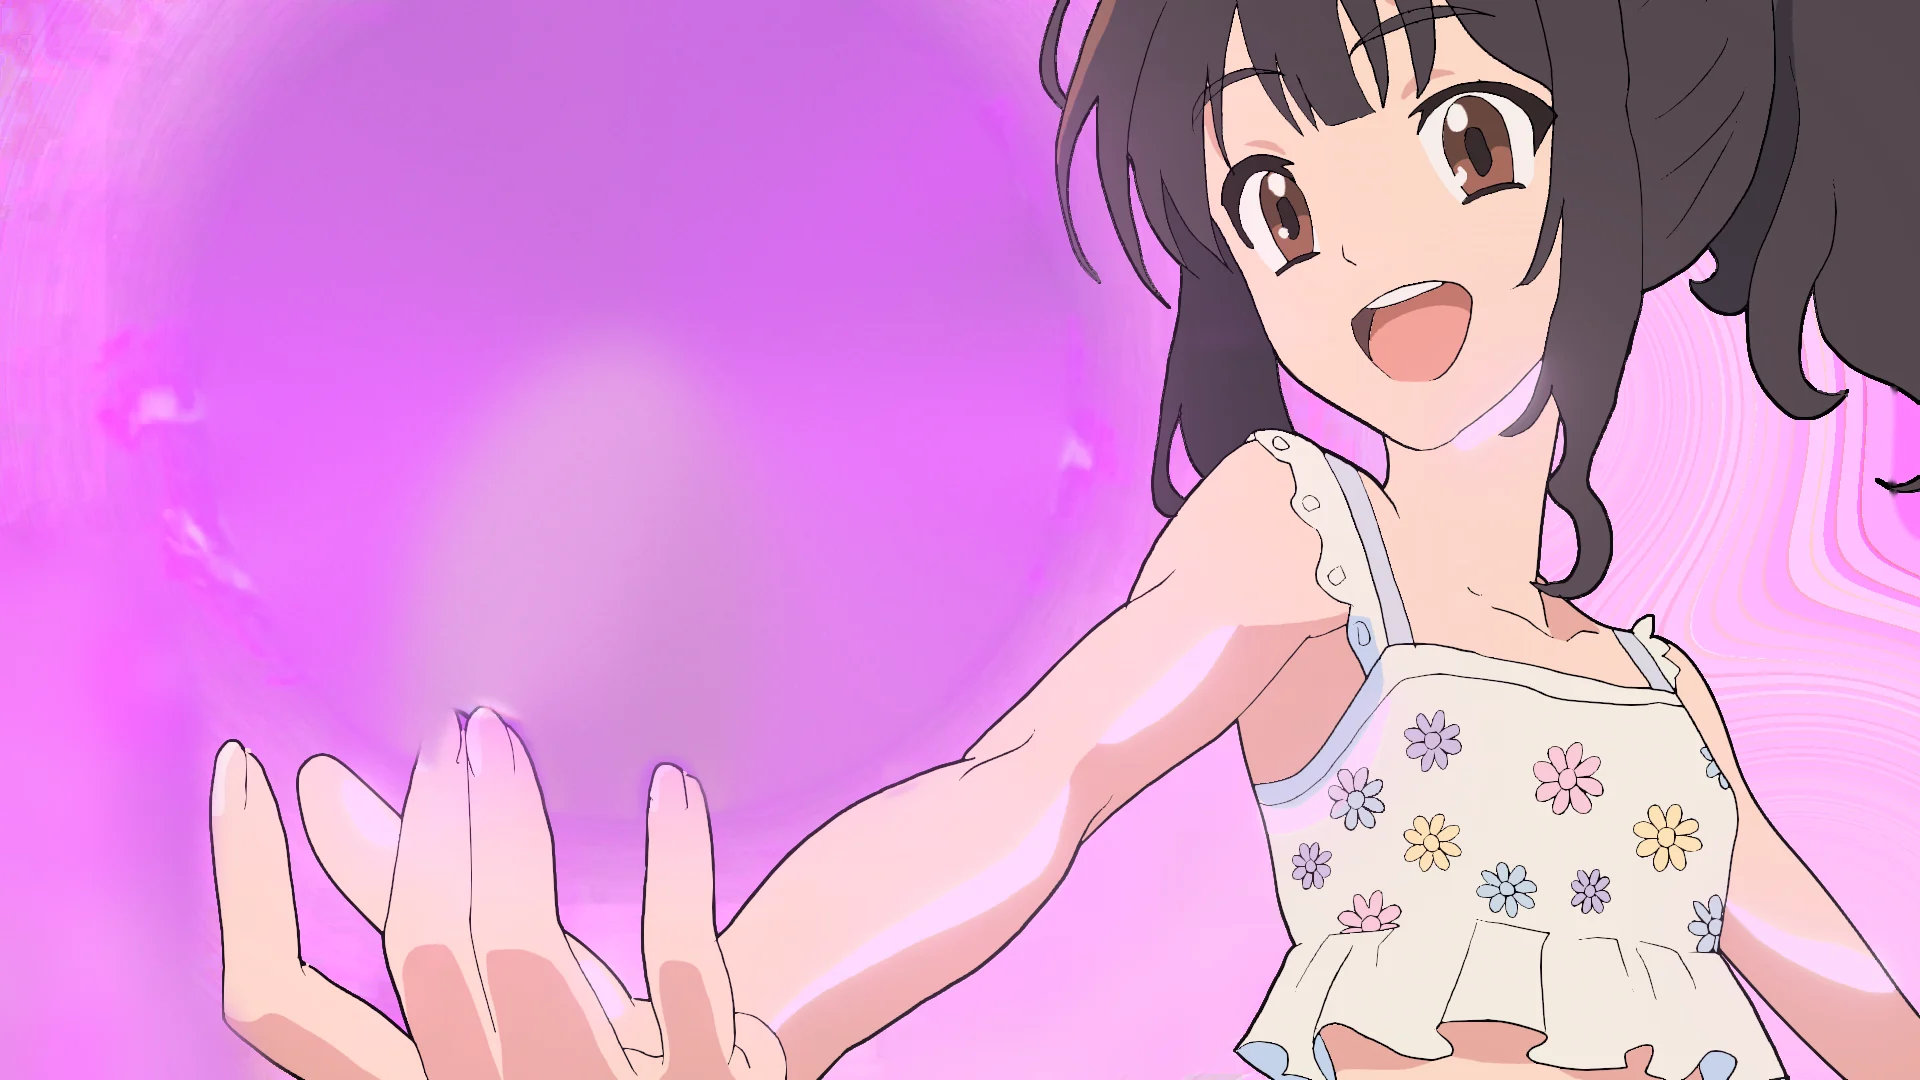
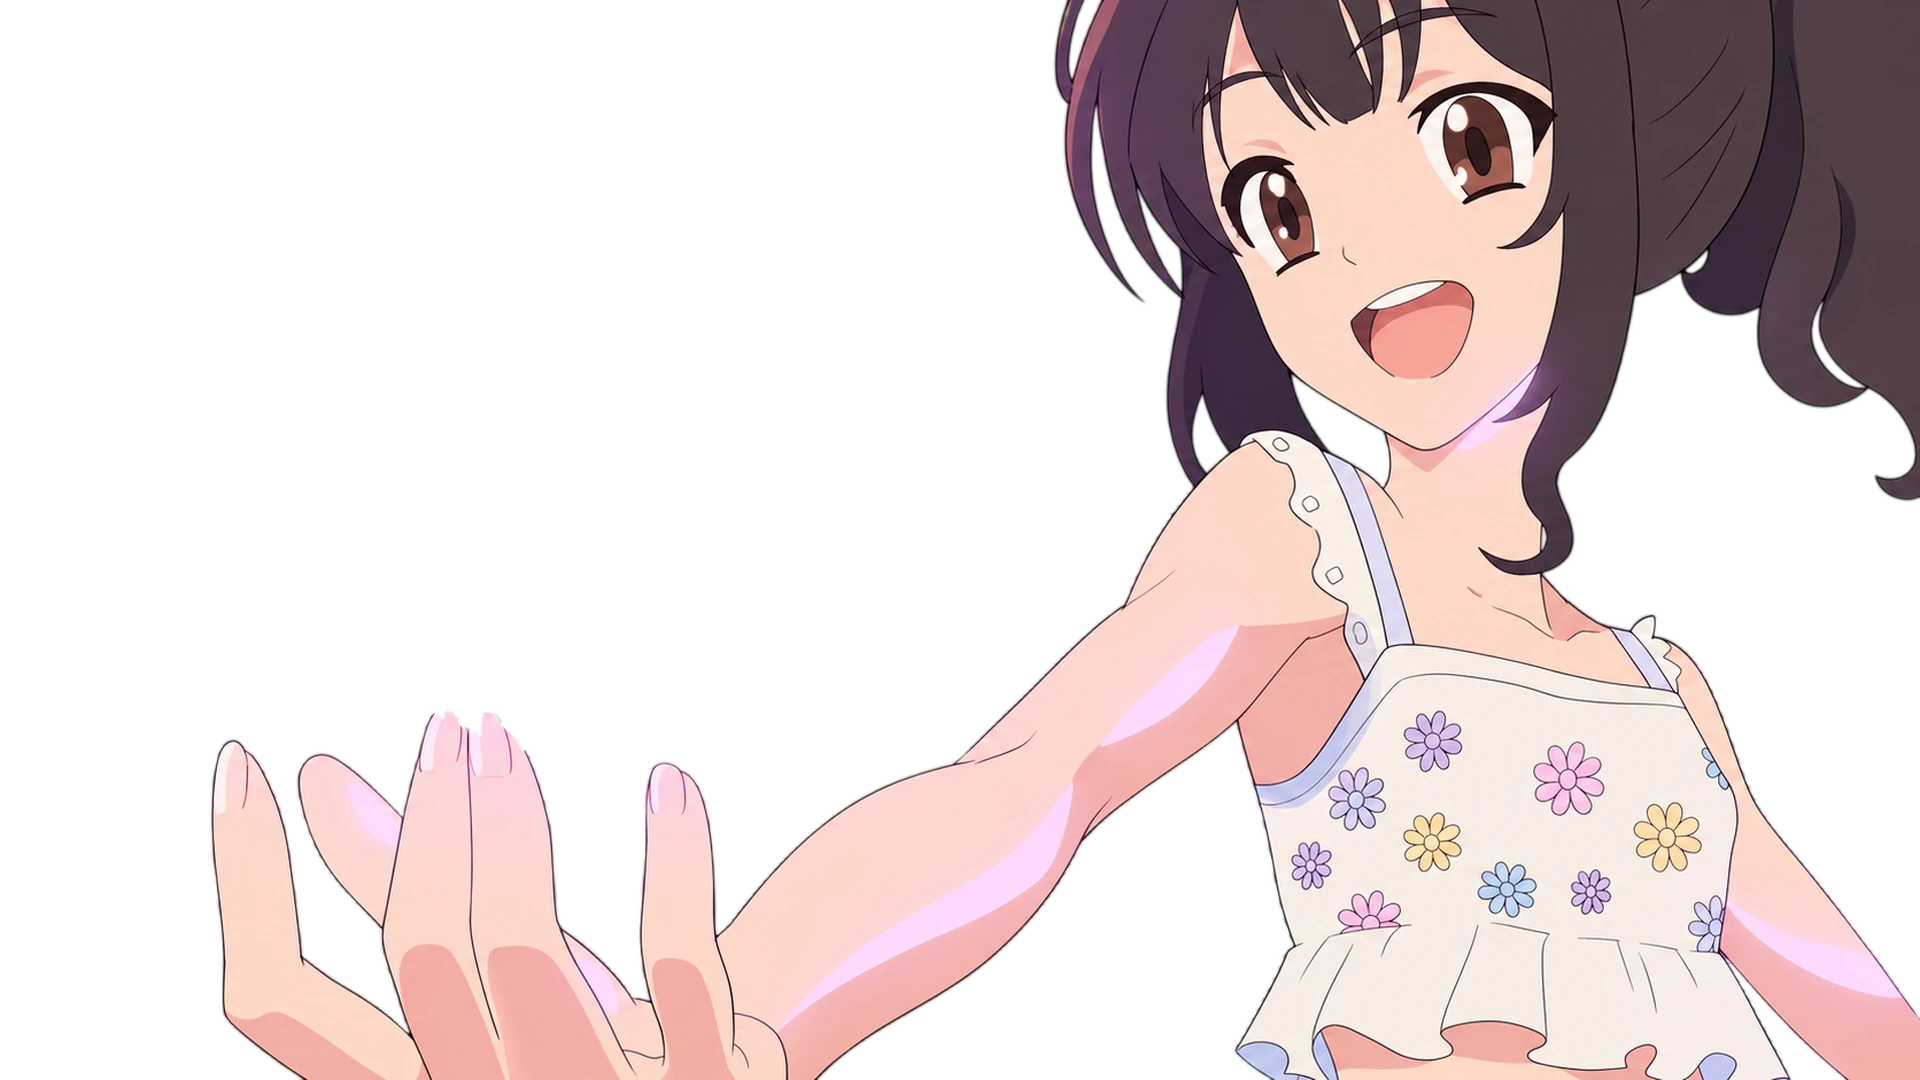
Add files via upload

diff --git a/js/main.js b/js/main.js
@@ -10,7 +10,8 @@
     fps: 24,
     intro: { count: 41, path: i => `./intro/i${String(i).padStart(3, '0')}.webp` },
     loop:  { count: 1, path: () => './loop/home.webp' },
-    showreel: { id: '1247734704', h: 'c49ad48897' },
+    ball:  { count: 32, path: i => `./loop/ball/b${String(i).padStart(3, '0')}.webp` },   // the glowing orb, transparent frames on top of the still
+    showreel: { id: '1249816233' },
     compareSource: 'local',   // 'local' = instant (recommended) · 'vimeo' = your Vimeo versions
     vimeoCompare: { genka: { id: '1247734705', h: '13a37f51ef' }, final: { id: '1247734706', h: '086fb55e4e' } },
     genkaLocal: { genkaVideo: './media/genka.mp4', finalVideo: './media/final.mp4' },
@@ -42,7 +43,7 @@
   /* ============================================================
      Frame sets + player
      ============================================================ */
-  const sets = { intro: [], loop: [] };
+  const sets = { intro: [], loop: [], ball: [] };
   let loaded = 0;
   const totalFrames = CONFIG.intro.count + CONFIG.loop.count;
 
@@ -689,6 +690,7 @@
     stage.style.setProperty('--oy', (H - rh) * fy + 'px');
     stage.style.setProperty('--u', rw / 100 + 'px');
     if (loopPlayer) { loopPlayer.fx = fx; loopPlayer.fy = fy; loopPlayer.resize(); }
+    if (ballPlayer) { ballPlayer.fx = innerWidth < 760 ? .8 : fx; ballPlayer.fy = fy; ballPlayer.resize(); }
     layoutHero.fx = fx; layoutHero.fy = fy;
   }
 
@@ -746,15 +748,23 @@
      Boot: loader (intro animation) → landing loop
      ============================================================ */
   const loader = $('#loader'), num = $('#loaderNum'), bar = $('#loaderBar'), skip = $('#loaderSkip');
-  let revealed = false, introPlayer = null, loopPlayer = null;
+  let revealed = false, introPlayer = null, loopPlayer = null, ballPlayer = null;
 
   function startLanding() {
     loopPlayer = new Player($('#loopCanvas'), sets.loop, { cover: true, loop: true });
     if (innerWidth < 760) loopPlayer.fx = .8;   // on phones keep the girl in view
+    const bc = $('#ballCanvas');
+    if (bc) {
+      loadSet('ball', 1).then(() => {
+        ballPlayer = new Player(bc, sets.ball, { cover: true, loop: true }); layoutHero();
+        if (reduce) { ballPlayer.draw(0); return; }
+        ballPlayer.play();
+      });
+    }
     layoutHero();
     if (reduce) { loopPlayer.draw(0); return; }
     loopPlayer.play();
-    new IntersectionObserver(es => es.forEach(e => e.isIntersecting ? loopPlayer.resume() : loopPlayer.pause()), { threshold: 0 }).observe($('#stage'));
+    new IntersectionObserver(es => es.forEach(e => { e.isIntersecting ? loopPlayer.resume() : loopPlayer.pause(); if (ballPlayer) e.isIntersecting ? ballPlayer.resume() : ballPlayer.pause(); }), { threshold: 0 }).observe($('#stage'));
   }
 
   // intro → homepage: no hold, no fade — a fast iris wipe over the landing loop while the title pops in

diff --git a/css/style.css b/css/style.css
@@ -135,7 +135,7 @@ html.has-cursor,.has-cursor *{cursor:none!important}
 .hero__sky .i1{left:-2%;top:22%}.hero__sky .i2{left:1%;top:60%;width:160px;height:88px;color:rgba(212,190,246,.4)}
 .hero__sky .isle-castle{position:absolute;left:1.5%;top:12.5%;width:170px;height:104px;color:rgba(130,104,200,.55)}
 /* full-bleed stage: JS sets --ox/--oy (frame offset) and --u (1% of frame width) so the orb text tracks the art */
-.hero__stage{position:absolute;inset:0;--ox:0px;--oy:0px;--u:14px}
+.hero__stage{position:absolute;inset:0;background:linear-gradient(100deg,#e56df2,#f5b3f8 60%,#f7c4f8);--ox:0px;--oy:0px;--u:14px}
 .hero__stage canvas{position:absolute;inset:0;width:100%;height:100%}
 .orbit{position:absolute;left:calc(var(--ox) + var(--u) * 33.2);top:calc(var(--oy) + var(--u) * 19.29);width:calc(var(--u) * 68);height:calc(var(--u) * 68);translate:-50% -50%;pointer-events:none;overflow:visible}
 .orbit__star{filter:drop-shadow(0 0 4px rgba(255,230,170,.9))}
@@ -312,7 +312,7 @@ html.has-cursor,.has-cursor *{cursor:none!important}
   .hero{height:auto;min-height:0}
   .hero__stage{position:relative;inset:auto;height:74svh;min-height:520px;max-height:700px}
   .hero::after{display:none}
-  #loopCanvas{-webkit-mask-image:linear-gradient(#000 86%,transparent);mask-image:linear-gradient(#000 86%,transparent)}
+  #loopCanvas,#ballCanvas{-webkit-mask-image:linear-gradient(#000 86%,transparent);mask-image:linear-gradient(#000 86%,transparent)}
   .hero__foot{position:relative;left:auto;right:auto;bottom:auto;flex-direction:column;align-items:flex-start;gap:16px;margin-top:-20px;padding-bottom:clamp(90px,22vw,140px)}
   .skills__grid{grid-template-columns:1fr}
   .skills__art{order:-1}

diff --git a/index.html b/index.html
@@ -107,6 +107,7 @@
     <svg class="isle-castle ic1" data-speed="0.12"><use href="#castle"/></svg>
   </div>
   <div class="hero__stage" id="stage">
+    <canvas id="ballCanvas" aria-hidden="true"></canvas>
     <canvas id="loopCanvas" aria-hidden="true"></canvas>
     <!-- orbit ring around the orb -->
     <svg class="orbit" viewBox="0 0 400 400" aria-hidden="true">
